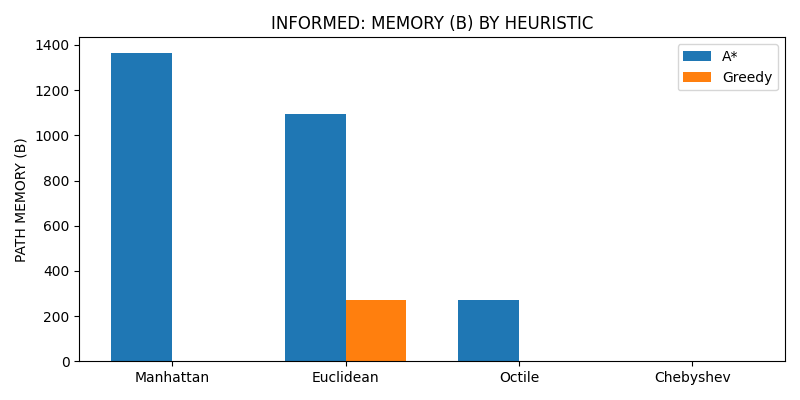
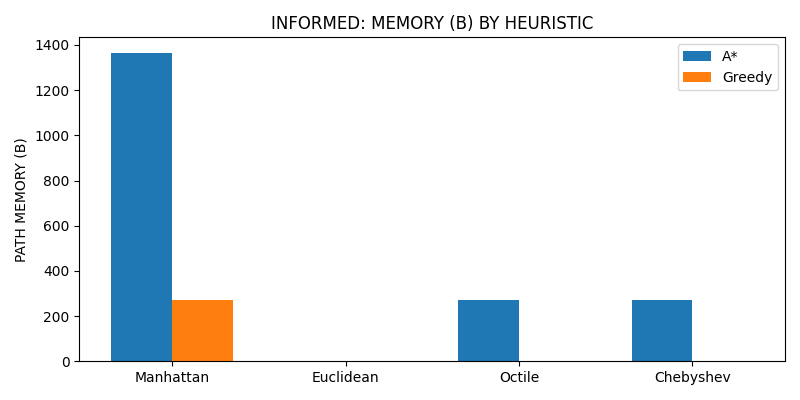
Correção da Comparação Informed

Changed region(s): [[0.3438, 0.27, 0.5312, 0.9], [0.1875, 0.75, 0.3125, 0.9], [0.7812, 0.75, 0.875, 0.9]]

diff --git a/trabalho1/src/comparisons/informed_plots.py b/trabalho1/src/comparisons/informed_plots.py
@@ -168,12 +168,17 @@ def plot_informed_time_memory(metrics: dict, out_dir: str | Path | None = None):
     
     out_dir = repo_root / 'data' / 'output' / 'graphics' / 'informed'
 
-    # DEFINE ALGORITHMS AND HEURISTICS
+    # DEFINE ALGORITHMS AND HEURISTICS (ALL 4 HEURISTICS)
     algorithms = [
-        ('A*-Manhattan',  metrics.get('A*-Manhattan avg time (ms)', 0),  metrics.get('A*-Manhattan avg memory (B)', 0)),
-        ('A*-Euclidean',  metrics.get('A*-Euclidean avg time (ms)', 0),  metrics.get('A*-Euclidean avg memory (B)', 0)),
+        ('A*-Manhattan',   metrics.get('A*-Manhattan avg time (ms)', 0),   metrics.get('A*-Manhattan avg memory (B)', 0)),
+        ('A*-Euclidean',   metrics.get('A*-Euclidean avg time (ms)', 0),   metrics.get('A*-Euclidean avg memory (B)', 0)),
+        ('A*-Octile',      metrics.get('A*-Octile avg time (ms)', 0),      metrics.get('A*-Octile avg memory (B)', 0)),
+        ('A*-Chebyshev',   metrics.get('A*-Chebyshev avg time (ms)', 0),   metrics.get('A*-Chebyshev avg memory (B)', 0)),
+
         ('Greedy-Manhattan', metrics.get('Greedy-Manhattan avg time (ms)', 0), metrics.get('Greedy-Manhattan avg memory (B)', 0)),
-        ('Greedy-Euclidean', metrics.get('Greedy-Euclidean avg time (ms)', 0), metrics.get('Greedy-Euclidean avg memory (B)', 0))
+        ('Greedy-Euclidean', metrics.get('Greedy-Euclidean avg time (ms)', 0), metrics.get('Greedy-Euclidean avg memory (B)', 0)),
+        ('Greedy-Octile',    metrics.get('Greedy-Octile avg time (ms)', 0),    metrics.get('Greedy-Octile avg memory (B)', 0)),
+        ('Greedy-Chebyshev', metrics.get('Greedy-Chebyshev avg time (ms)', 0), metrics.get('Greedy-Chebyshev avg memory (B)', 0))
     ]
 
     # PREPARE PLOT
@@ -182,7 +187,7 @@ def plot_informed_time_memory(metrics: dict, out_dir: str | Path | None = None):
     for name, time_val, mem_val in algorithms:
         plt.plot(
             float(time_val),
-            float(mem_val) / 1024,  # convert B → KB
+            float(mem_val) / 1024,  # Convert B → KB
             marker='o',
             label=name
         )
